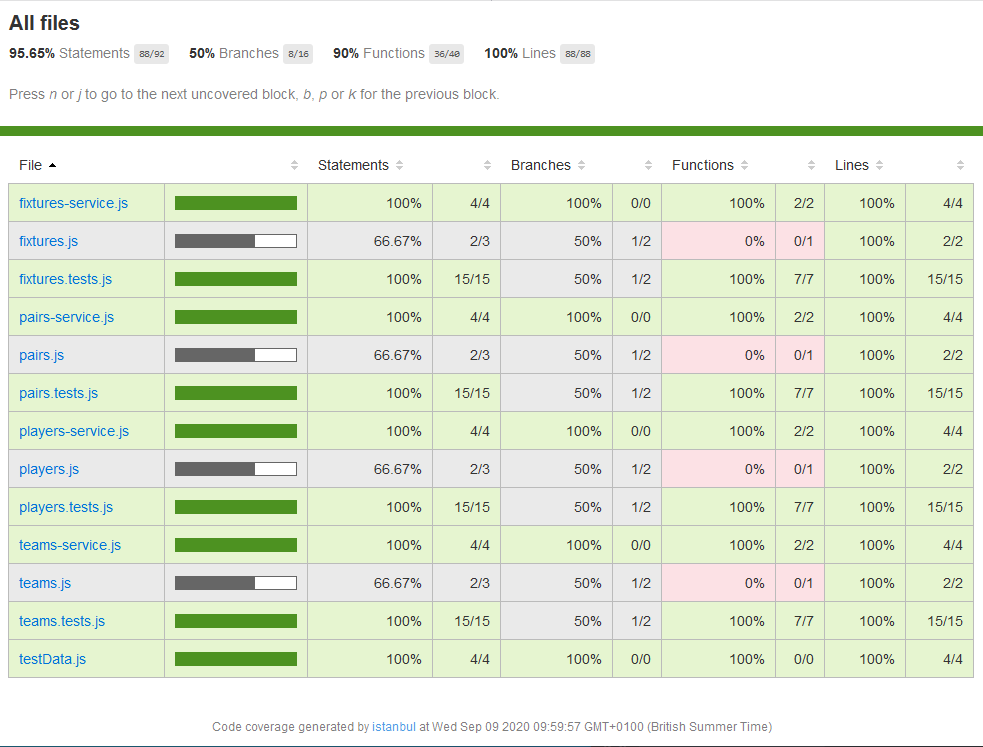
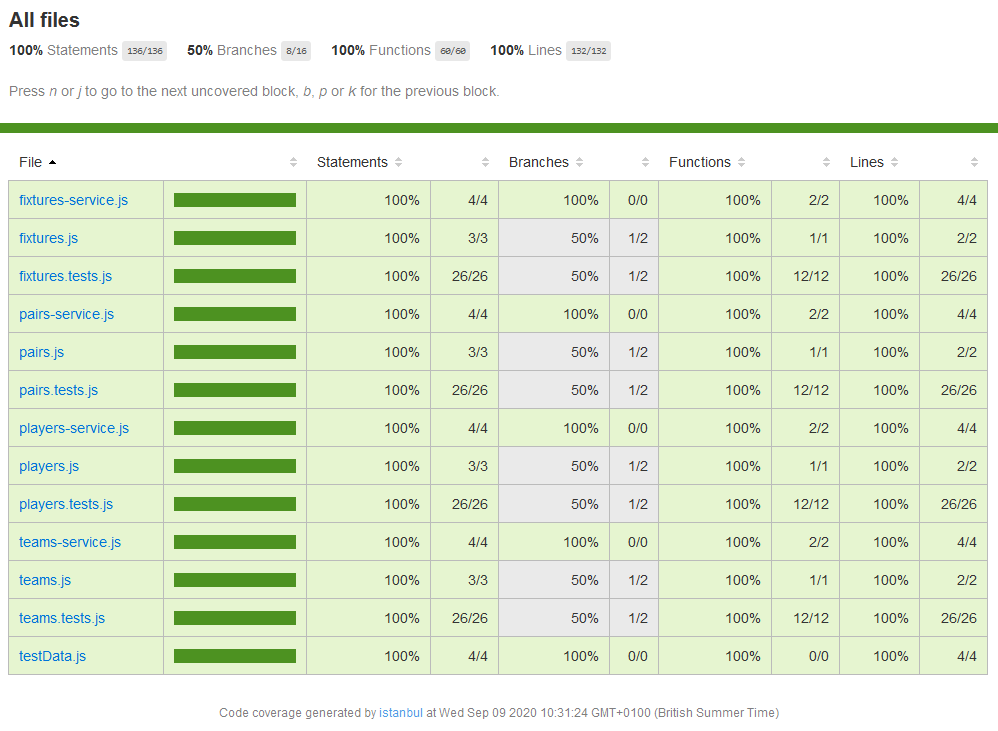
Update unit tests to get 100% coverage and update README

diff --git a/imports/api/fixtures.tests.js b/imports/api/fixtures.tests.js
@@ -1,5 +1,6 @@
 import { Meteor } from 'meteor/meteor';
 import { assert } from 'chai';
+import { PublicationCollector } from 'meteor/johanbrook:publication-collector';
 
 import Fixtures from './fixtures.js';
 import { getFixture, getAllFixtures } from './fixtures-service.js';
@@ -7,6 +8,26 @@ import { fixturesData } from './testData.js';
 
 if (Meteor.isServer) {
     describe('Fixtures', function() {
+        describe('publications', function() {
+            let fixture;
+            let fixtureId;
+            before(() => {
+                Fixtures.remove({});
+                fixtureId = Fixtures.insert(fixturesData);
+                fixture = Fixtures.findOne({});
+            });
+
+            describe('fixtures', function() {
+                it('sends all fixtures', function(done) {
+                    const collector = new PublicationCollector();
+                    collector.collect('fixtures', function(collections) {
+                        assert.equal(collections.fixtures.length, 1);
+                        done();
+                    });
+                });
+            });
+        });
+
         describe('methods', function() {
             let fixture;
             let fixtureId;

diff --git a/imports/api/players.tests.js b/imports/api/players.tests.js
@@ -1,5 +1,6 @@
 import { Meteor } from 'meteor/meteor';
 import { assert } from 'chai';
+import { PublicationCollector } from 'meteor/johanbrook:publication-collector';
 
 import Players from './players.js';
 import { getPlayer, getAllPlayers } from './players-service.js';
@@ -7,6 +8,26 @@ import { playersData } from './testData.js';
 
 if (Meteor.isServer) {
     describe('Players', function() {
+        describe('publications', function() {
+            let player;
+            let playerId;
+            before(() => {
+                Players.remove({});
+                playerId = Players.insert(playersData);
+                player = Players.findOne({});
+            });
+
+            describe('players', function() {
+                it('sends all players', function(done) {
+                    const collector = new PublicationCollector();
+                    collector.collect('players', function(collections) {
+                        assert.equal(collections.players.length, 1);
+                        done();
+                    });
+                });
+            });
+        });
+
         describe('methods', function() {
             let player;
             let playerId;

diff --git a/imports/api/pairs.tests.js b/imports/api/pairs.tests.js
@@ -1,5 +1,6 @@
 import { Meteor } from 'meteor/meteor';
 import { assert } from 'chai';
+import { PublicationCollector } from 'meteor/johanbrook:publication-collector';
 
 import Pairs from './pairs.js';
 import { getPair, getAllPairs } from './pairs-service.js';
@@ -7,6 +8,26 @@ import { pairsData } from './testData.js';
 
 if (Meteor.isServer) {
     describe('Pairs', function() {
+        describe('publications', function() {
+            let pair;
+            let pairId;
+            before(() => {
+                Pairs.remove({});
+                pairId = Pairs.insert(pairsData);
+                pair = Pairs.findOne({});
+            });
+
+            describe('pairs', function() {
+                it('sends all pairs', function(done) {
+                    const collector = new PublicationCollector();
+                    collector.collect('pairs', function(collections) {
+                        assert.equal(collections.pairs.length, 1);
+                        done();
+                    });
+                });
+            });
+        });
+
         describe('methods', function() {
             let pair;
             let pairId;

diff --git a/imports/api/teams.tests.js b/imports/api/teams.tests.js
@@ -1,5 +1,6 @@
 import { Meteor } from 'meteor/meteor';
 import { assert } from 'chai';
+import { PublicationCollector } from 'meteor/johanbrook:publication-collector';
 
 import Teams from './teams.js';
 import { getTeam, getAllTeams } from './teams-service.js';
@@ -7,6 +8,26 @@ import { teamsData } from './testData.js';
 
 if (Meteor.isServer) {
     describe('Teams', function() {
+        describe('publications', function() {
+            let team;
+            let teamId;
+            before(() => {
+                Teams.remove({});
+                teamId = Teams.insert(teamsData);
+                team = Teams.findOne({});
+            });
+
+            describe('teams', function() {
+                it('sends all teams', function(done) {
+                    const collector = new PublicationCollector();
+                    collector.collect('teams', function(collections) {
+                        assert.equal(collections.teams.length, 1);
+                        done();
+                    });
+                });
+            });
+        });
+
         describe('methods', function() {
             let team;
             let teamId;

diff --git a/README.md b/README.md
@@ -64,6 +64,8 @@ meteor npm install --save-dev babel-plugin-istanbul
 BABEL_ENV=COVERAGE COVERAGE=1 COVERAGE_VERBOSE=1 COVERAGE_APP_FOLDER=$PWD/ TEST_WATCH=1 meteor test --driver-package meteortesting:mocha
 ```
 
+If you do not see any green on the code coverage page, please refresh the page, as code coverage takes a small amount of time to load before generating an up to date html document.
+
 ![](gif/code_coverage.png)
 
 ### 2.3 How to play
